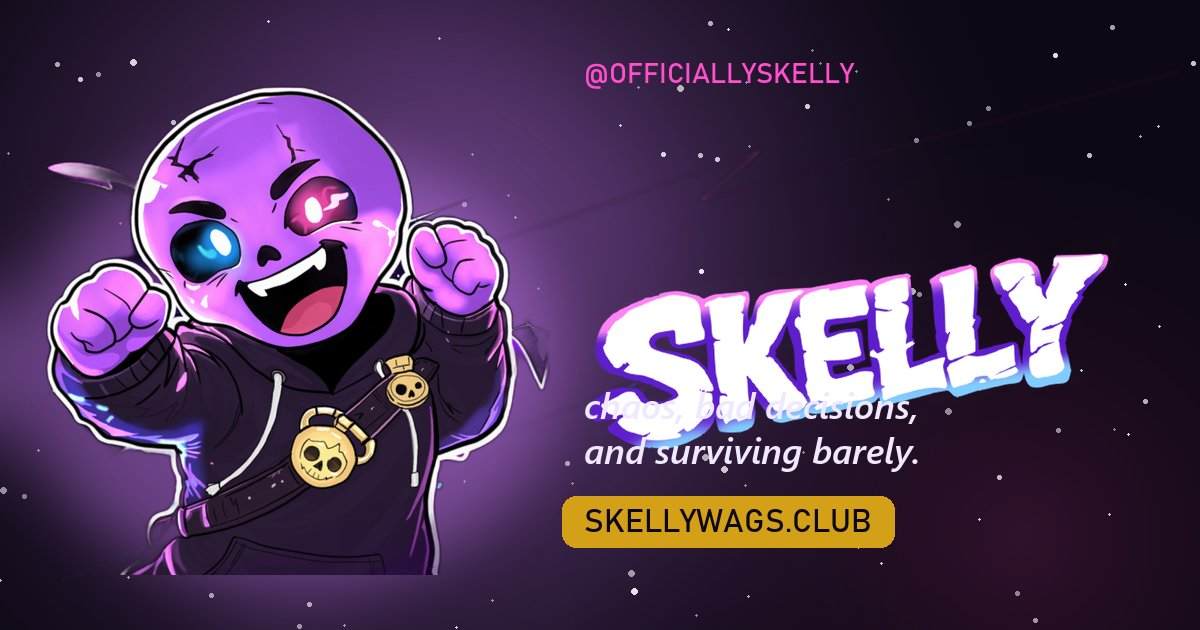
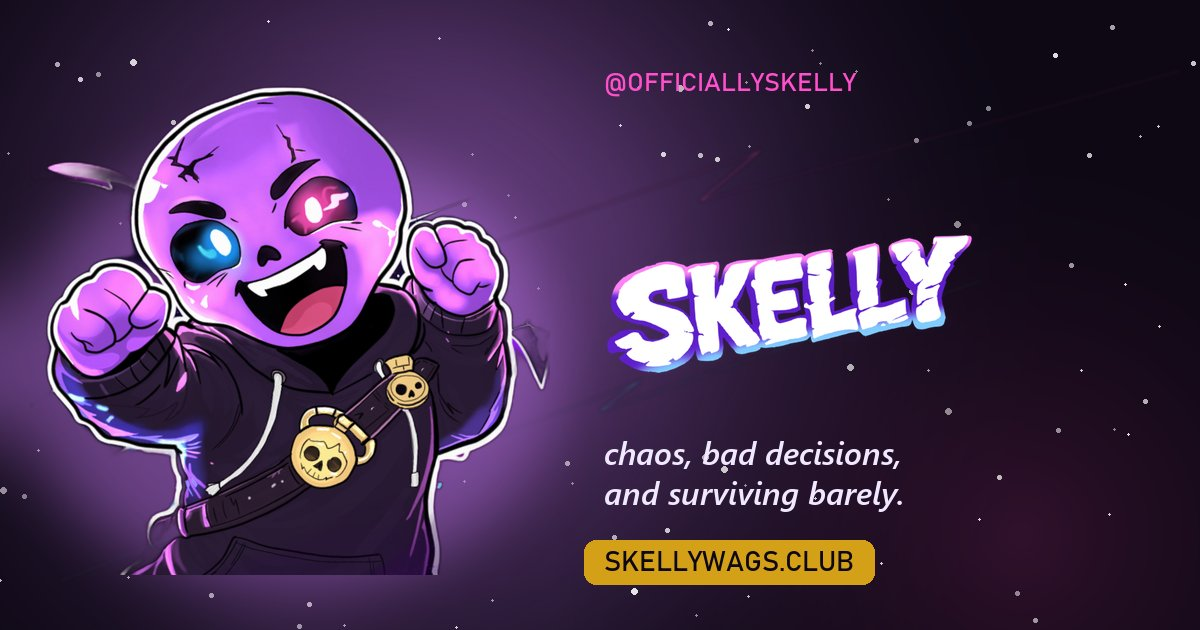
OG: fix SKELLY wordmark overlap by reducing wordmark + repositioning tagline

Changed region(s): [[0.4625, 0.3619, 0.925, 0.9349], [0.4933, 0.0905, 0.7092, 0.1508]]

diff --git a/scripts/make-og.py b/scripts/make-og.py
@@ -105,39 +105,39 @@ def main():
 
         canvas.alpha_composite(avatar, (ax, ay))
 
-    # Wordmark on right
+    draw = ImageDraw.Draw(canvas)
+    text_x = 600
+
+    # Channel handle (top)
+    handle_font = find_font(["bahnschrift.ttf", "impact.ttf", "ariblk.ttf", "arial.ttf"], 26)
+    draw.text((text_x + 4, 70), "@OFFICIALLYSKELLY", font=handle_font, fill=ELECTRIC_PINK)
+
+    # Wordmark on right (sized to NOT overlap tagline)
     word_path = os.path.join(PUBLIC, "skellyword.png")
-    text_x = 580
     if os.path.exists(word_path):
         word = Image.open(word_path).convert("RGBA")
-        target_w = 540
+        target_w = 380
         ratio = target_w / word.width
         word = word.resize((target_w, int(word.height * ratio)), Image.LANCZOS)
-        wy = 90
+        wy = 120
         canvas.alpha_composite(word, (text_x, wy))
 
-    draw = ImageDraw.Draw(canvas)
+    # Tagline (positioned BELOW wordmark, never overlaps)
+    tagline_font = find_font(["seguisbi.ttf", "georgiai.ttf", "ariali.ttf", "arial.ttf"], 32)
+    draw.text((text_x + 4, 430), "chaos, bad decisions,", font=tagline_font, fill=TEXT_PRIMARY)
+    draw.text((text_x + 4, 470), "and surviving barely.", font=tagline_font, fill=TEXT_PRIMARY)
 
-    # Channel handle
-    handle_font = find_font(["bahnschrift.ttf", "impact.ttf", "ariblk.ttf", "arial.ttf"], 28)
-    draw.text((text_x + 4, 60), "@OFFICIALLYSKELLY", font=handle_font, fill=ELECTRIC_PINK)
-
-    # Tagline
-    tagline_font = find_font(["seguisbi.ttf", "georgiai.ttf", "ariali.ttf", "arial.ttf"], 36)
-    draw.text((text_x + 4, 380), "chaos, bad decisions,", font=tagline_font, fill=TEXT_PRIMARY)
-    draw.text((text_x + 4, 425), "and surviving barely.", font=tagline_font, fill=TEXT_PRIMARY)
-
-    # URL pill (gold accent)
-    url_font = find_font(["bahnschrift.ttf", "impact.ttf", "arialbd.ttf", "arial.ttf"], 32)
+    # URL pill (gold, bottom)
+    url_font = find_font(["bahnschrift.ttf", "impact.ttf", "arialbd.ttf", "arial.ttf"], 28)
     url_text = "SKELLYWAGS.CLUB"
     bbox = draw.textbbox((0, 0), url_text, font=url_font)
     tw = bbox[2] - bbox[0]
     th = bbox[3] - bbox[1]
-    pill_x, pill_y = text_x + 4, 510
-    pad_x, pad_y = 22, 14
+    pill_x, pill_y = text_x + 4, 552
+    pad_x, pad_y = 20, 12
     draw.rounded_rectangle(
         (pill_x - pad_x, pill_y - pad_y, pill_x + tw + pad_x, pill_y + th + pad_y),
-        radius=14,
+        radius=12,
         fill=GOLD,
     )
     draw.text((pill_x, pill_y - 4), url_text, font=url_font, fill=BG_PRIMARY)
